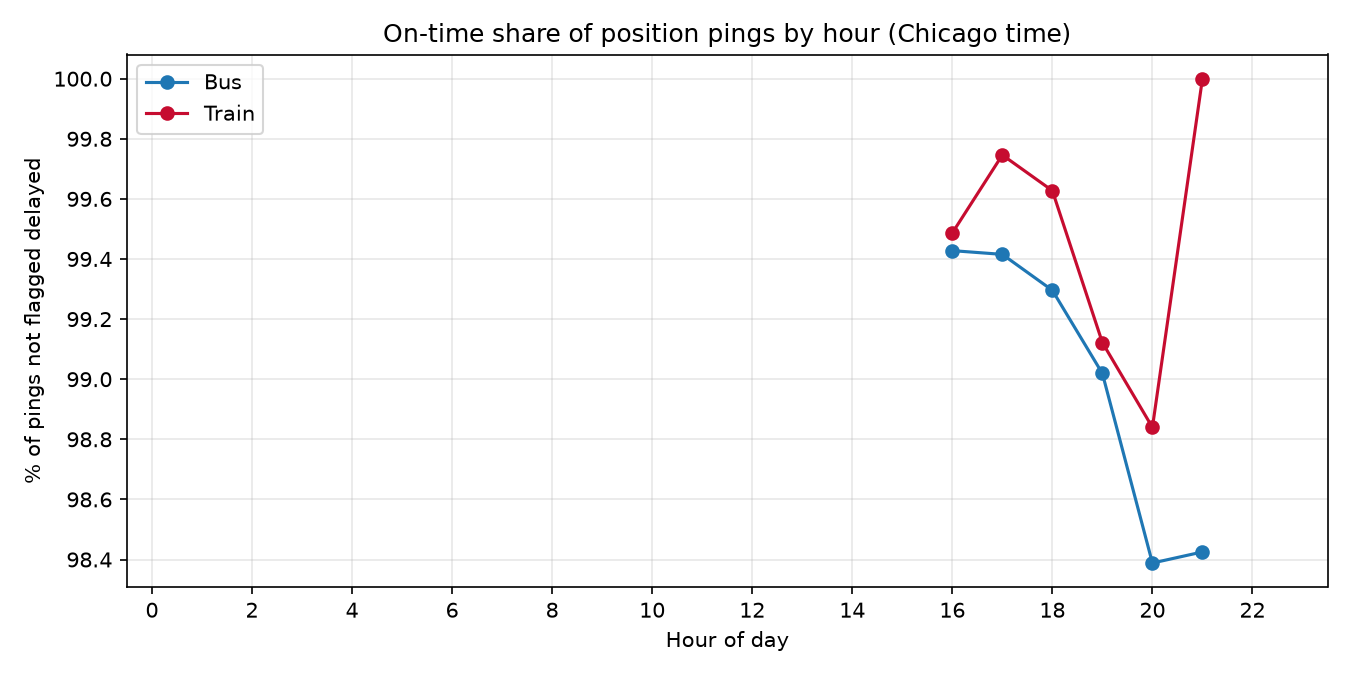
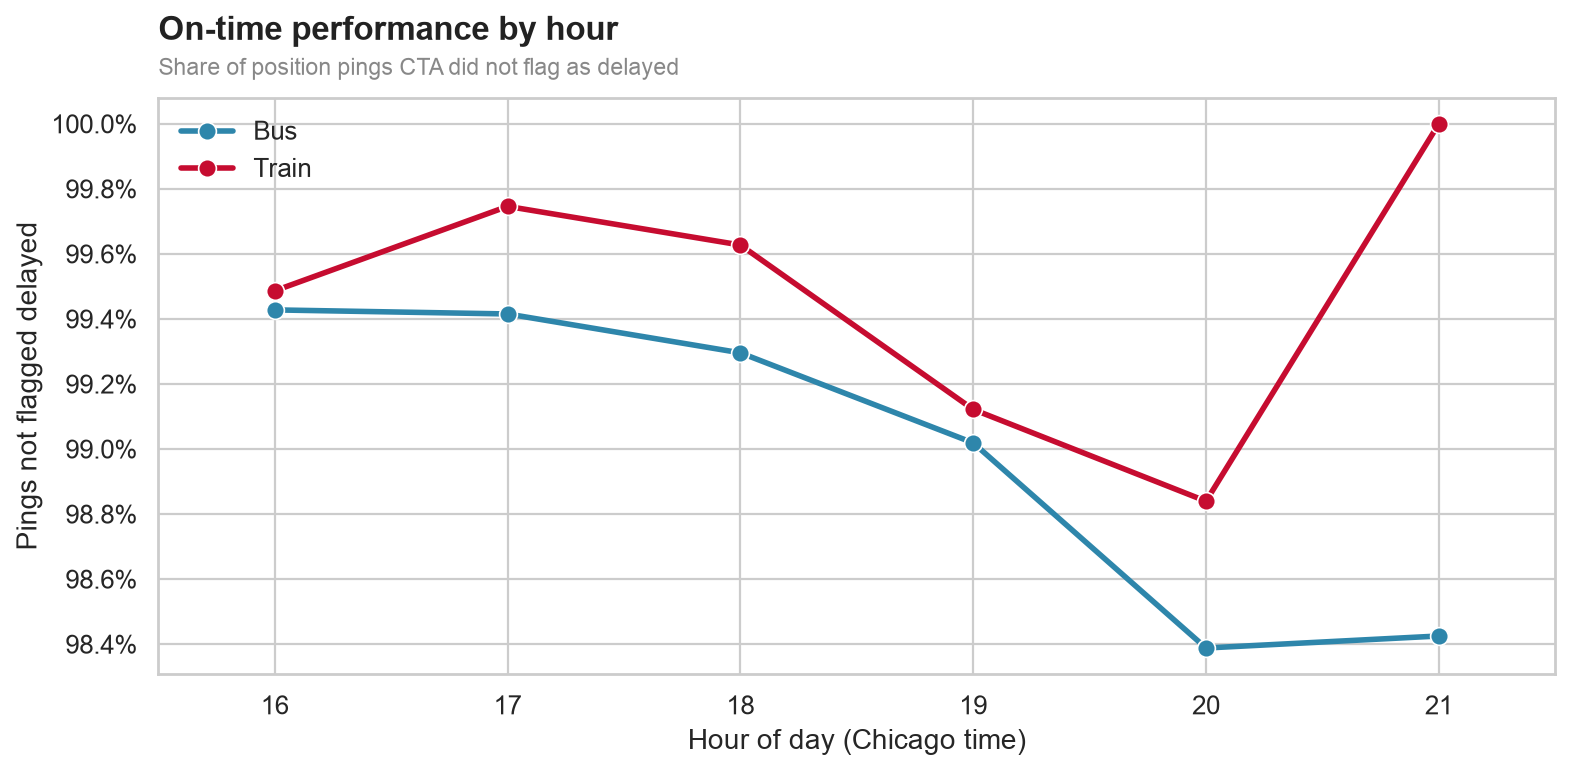
Restyle result charts with seaborn

diff --git a/scripts/make_charts.py b/scripts/make_charts.py
@@ -4,15 +4,16 @@ Run from the repo root:  python scripts/make_charts.py
 Writes PNGs to results/charts/.
 """
 
-import csv
 import math
-from collections import defaultdict
 from pathlib import Path
 
 import matplotlib
 
 matplotlib.use("Agg")  # render to files; no display needed
 import matplotlib.pyplot as plt  # noqa: E402
+import pandas as pd  # noqa: E402
+import seaborn as sns  # noqa: E402
+from matplotlib.ticker import PercentFormatter  # noqa: E402
 
 REPO_ROOT = Path(__file__).resolve().parents[1]
 RESULTS_DIR = REPO_ROOT / "results"
@@ -21,126 +22,130 @@ CHARTS_DIR = RESULTS_DIR / "charts"
 # Routes need enough pings for their on-time ratio to mean something.
 MIN_ROUTE_PINGS = 100
 
-MODE_COLORS = {"bus": "#1f77b4", "train": "#c60c30"}
+MODE_PALETTE = {"Bus": "#2E86AB", "Train": "#C60C30"}
 # API line code -> (display name, official color from GTFS routes.txt)
 TRAIN_LINES = {
-    "red": ("Red", "#C60C30"), "blue": ("Blue", "#00A1DE"), "brn": ("Brown", "#62361B"),
-    "g": ("Green", "#009B3A"), "org": ("Orange", "#F9461C"), "p": ("Purple", "#522398"),
+    "red": ("Red", "#C60C30"), "blue": ("Blue", "#00A1DE"), "brn": ("Brown", "#8B5A2B"),
+    "g": ("Green", "#009B3A"), "org": ("Orange", "#F9461C"), "p": ("Purple", "#8E5CD9"),
     "pink": ("Pink", "#E27EA6"), "y": ("Yellow", "#F9E300"),
 }
+# Brown and Purple are lightened slightly from the official colors so they show on a dark map.
 
 
-def read_csv(name):
-    with open(RESULTS_DIR / f"{name}.csv", newline="") as f:
-        return list(csv.DictReader(f))
-
-
-def on_time_pct(pings, delayed):
-    # Weighted by pings, so a quiet route-hour doesn't count as much as a busy one.
-    return 100 * (1 - delayed / pings) if pings else None
+def weighted_on_time(df, by):
+    """On-time % weighted by pings, so a quiet route-hour counts less than a busy one."""
+    grouped = df.groupby(by, as_index=False)[["position_pings", "delayed_pings"]].sum()
+    grouped["on_time_pct"] = 100 * (1 - grouped["delayed_pings"] / grouped["position_pings"])
+    return grouped
 
 
 def chart_on_time_by_hour(mart):
-    totals = defaultdict(lambda: [0, 0])  # (mode, hour) -> [pings, delayed]
-    for row in mart:
-        key = (row["mode"], int(row["hour_of_day"]))
-        totals[key][0] += int(row["position_pings"])
-        totals[key][1] += int(row["delayed_pings"])
+    hourly = weighted_on_time(mart, ["mode", "hour_of_day"])
+    hourly["mode"] = hourly["mode"].str.capitalize()
 
-    fig, ax = plt.subplots(figsize=(9, 4.5))
-    for mode, color in MODE_COLORS.items():
-        hours = sorted(h for m, h in totals if m == mode)
-        values = [on_time_pct(*totals[(mode, h)]) for h in hours]
-        ax.plot(hours, values, marker="o", color=color, label=mode.capitalize())
-
-    ax.set_title("On-time share of position pings by hour (Chicago time)")
-    ax.set_xlabel("Hour of day")
-    ax.set_ylabel("% of pings not flagged delayed")
-    ax.set_xticks(range(0, 24, 2))
-    ax.set_xlim(-0.5, 23.5)
-    ax.grid(alpha=0.3)
-    ax.legend()
+    fig, ax = plt.subplots(figsize=(10, 5))
+    sns.lineplot(
+        data=hourly, x="hour_of_day", y="on_time_pct", hue="mode", palette=MODE_PALETTE,
+        marker="o", markersize=8, linewidth=2.5, ax=ax,
+    )
+    # Fit the axis to the hours collected so far; it grows to the full day as data accumulates.
+    first, last = hourly["hour_of_day"].min(), hourly["hour_of_day"].max()
+    step = 1 if last - first <= 12 else 2
+    ax.set(xlabel="Hour of day (Chicago time)", ylabel="Pings not flagged delayed",
+           xlim=(first - 0.5, last + 0.5), xticks=range(first, last + 1, step))
+    ax.yaxis.set_major_formatter(PercentFormatter(decimals=1))
+    ax.legend(title=None, frameon=False)
+    title(ax, "On-time performance by hour", "Share of position pings CTA did not flag as delayed")
     return save(fig, "on_time_by_hour.png")
 
 
 def chart_worst_routes(mart, top_n=10):
-    totals = defaultdict(lambda: [0, 0])
-    names = {}
-    for row in mart:
-        key = (row["mode"], row["route_id"])
-        totals[key][0] += int(row["position_pings"])
-        totals[key][1] += int(row["delayed_pings"])
-        names[key] = (row["route_name"] or "").strip()
+    routes = weighted_on_time(mart, ["mode", "route_id"])
+    names = mart.groupby(["mode", "route_id"])["route_name"].first().fillna("").str.strip()
+    routes = routes.merge(names.reset_index(), on=["mode", "route_id"])
+    routes = routes[routes["position_pings"] >= MIN_ROUTE_PINGS].nsmallest(top_n, "on_time_pct")
+    routes["label"] = (
+        routes["mode"].str.capitalize() + " " + routes["route_id"] + "  ·  " + routes["route_name"].str[:26]
+    )
 
-    ranked = sorted(
-        ((on_time_pct(*v), k) for k, v in totals.items() if v[0] >= MIN_ROUTE_PINGS),
-    )[:top_n]
-
-    labels = [f"{mode} {route}  {names[(mode, route)][:28]}" for _, (mode, route) in ranked]
-    values = [pct for pct, _ in ranked]
-    colors = [MODE_COLORS[mode] for _, (mode, _) in ranked]
-
-    fig, ax = plt.subplots(figsize=(9, 5))
-    ax.barh(labels[::-1], values[::-1], color=colors[::-1])
-    ax.set_title(f"Least on-time routes (min {MIN_ROUTE_PINGS} pings)")
-    ax.set_xlabel("% of pings not flagged delayed")
-    ax.set_xlim(min(values) - 5 if values else 0, 100)
-    for i, v in enumerate(values[::-1]):
-        ax.text(v + 0.2, i, f"{v:.1f}%", va="center", fontsize=8)
-    ax.grid(axis="x", alpha=0.3)
+    fig, ax = plt.subplots(figsize=(10, 5.5))
+    sns.barplot(
+        data=routes, y="label", x="on_time_pct", hue="on_time_pct",
+        palette="flare_r", legend=False, ax=ax,
+    )
+    for bar, pct in zip(ax.patches, routes["on_time_pct"]):
+        ax.text(bar.get_width() + 0.15, bar.get_y() + bar.get_height() / 2, f"{pct:.1f}%",
+                va="center", fontsize=10, color="#333")
+    ax.set(xlabel="Pings not flagged delayed", ylabel=None,
+           xlim=(math.floor(routes["on_time_pct"].min()) - 2, 100.5))
+    ax.xaxis.set_major_formatter(PercentFormatter(decimals=0))
+    sns.despine(left=True)
+    title(ax, f"Least on-time routes", f"Routes with at least {MIN_ROUTE_PINGS} position pings")
     return save(fig, "worst_routes.png")
 
 
 def chart_network_map(positions):
-    fig, ax = plt.subplots(figsize=(7, 9))
+    background = "#0E1117"
+    with plt.style.context("dark_background"):
+        fig, ax = plt.subplots(figsize=(8, 10), facecolor=background)
+        ax.set_facecolor(background)
 
-    buses = [p for p in positions if p["mode"] == "bus"]
-    ax.scatter(
-        [float(p["longitude"]) for p in buses],
-        [float(p["latitude"]) for p in buses],
-        s=1, color="#9aa5b1", alpha=0.5, label="Bus position",
-    )
+        buses = positions[positions["mode"] == "bus"]
+        ax.scatter(buses["longitude"], buses["latitude"], s=2.5, color="#9FB3D1",
+                   alpha=0.6, linewidths=0, label="Bus")
 
-    for line, (name, color) in TRAIN_LINES.items():
-        pts = [p for p in positions if p["mode"] == "train" and p["route_id"].lower() == line]
-        if pts:
-            ax.scatter(
-                [float(p["longitude"]) for p in pts],
-                [float(p["latitude"]) for p in pts],
-                s=6, color=color, label=f"{name} Line",
-            )
+        trains = positions[positions["mode"] == "train"]
+        for code, (name, color) in TRAIN_LINES.items():
+            pts = trains[trains["route_id"].str.lower() == code]
+            if not pts.empty:
+                ax.scatter(pts["longitude"], pts["latitude"], s=9, color=color,
+                           linewidths=0, label=f"{name} Line")
 
-    delayed = [p for p in positions if p["is_delayed"].lower() == "true"]
-    ax.scatter(
-        [float(p["longitude"]) for p in delayed],
-        [float(p["latitude"]) for p in delayed],
-        s=14, facecolors="none", edgecolors="black", linewidths=0.6, label="Flagged delayed",
-    )
+        delayed = positions[positions["is_delayed"].astype(str).str.lower() == "true"]
+        ax.scatter(delayed["longitude"], delayed["latitude"], s=40, facecolors="none",
+                   edgecolors="#FFD166", linewidths=1, label="Flagged delayed")
 
-    # Correct for longitude degrees being shorter than latitude degrees at Chicago's latitude.
-    ax.set_aspect(1 / math.cos(math.radians(41.88)))
-    ax.set_title("One hour of CTA vehicle positions")
-    ax.set_xlabel("Longitude")
-    ax.set_ylabel("Latitude")
-    ax.legend(loc="lower left", fontsize=7, markerscale=2, frameon=True)
-    return save(fig, "network_map.png")
+        # Longitude degrees are shorter than latitude degrees at Chicago's latitude.
+        ax.set_aspect(1 / math.cos(math.radians(41.88)))
+        ax.set_xticks([])
+        ax.set_yticks([])
+        for spine in ax.spines.values():
+            spine.set_visible(False)
+
+        legend = ax.legend(loc="lower left", fontsize=9, markerscale=2.5, frameon=False,
+                           labelcolor="#DDDDDD")
+        for handle in legend.legend_handles:
+            handle.set_alpha(1)
+        title(ax, "One hour of the CTA network",
+              f"{len(buses):,} bus and {len(trains):,} train position reports", color="#EEEEEE")
+        return save(fig, "network_map.png", facecolor=background)
 
 
-def save(fig, filename):
+def title(ax, main, sub, color="#222222"):
+    # Bold title with a grey subtitle tucked underneath it.
+    ax.set_title(main, loc="left", fontsize=15, fontweight="bold", color=color, pad=26)
+    ax.annotate(sub, xy=(0, 1), xycoords="axes fraction", xytext=(0, 8),
+                textcoords="offset points", fontsize=10.5, color="#888888", va="bottom")
+
+
+def save(fig, filename, **kwargs):
     CHARTS_DIR.mkdir(parents=True, exist_ok=True)
     path = CHARTS_DIR / filename
     fig.tight_layout()
-    fig.savefig(path, dpi=150)
+    fig.savefig(path, dpi=160, bbox_inches="tight", **kwargs)
     plt.close(fig)
     print(f"Wrote {path.relative_to(REPO_ROOT)}")
     return path
 
 
 def main():
-    mart = read_csv("fct_delay_by_route_hour")
+    sns.set_theme(style="whitegrid", context="notebook", font_scale=1.05)
+    mart = pd.read_csv(RESULTS_DIR / "fct_delay_by_route_hour.csv", dtype={"route_id": str})
+    positions = pd.read_csv(RESULTS_DIR / "recent_positions.csv", dtype={"route_id": str})
+
     chart_on_time_by_hour(mart)
     chart_worst_routes(mart)
-    chart_network_map(read_csv("recent_positions"))
+    chart_network_map(positions)
 
 
 if __name__ == "__main__":
